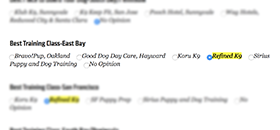
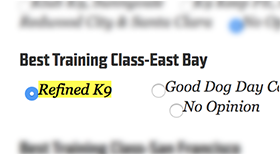
adding images

diff --git a/Misc/botb-2018.html b/Misc/botb-2018.html
@@ -155,7 +155,7 @@ div[style*="margin: 16px 0;"] { margin: 0 !important; }
                                 <tr>
                                     <td align="left" valign="top" style="font-family: Open Sans, Helvetica, Arial, sans-serif; padding-top: 25px;">
 
-                                        <img src="img-a.jpg" width="280" height="196" border="0" alt="Insert alt text here" style="display: block; border: 0px; color: #999999; font-family: sans-serif; font-size: 18px;" class="img-max">
+                                        <img src="https://refinedk9.com/email/Misc/class-east-bay.png" width="280" height="196" border="0" alt="Insert alt text here" style="display: block; border: 0px; color: #999999; font-family: sans-serif; font-size: 18px;" class="img-max">
 
                                         <h3 style="font-size: 18px; line-height: 24px;">Best Training Class - East Bay</h3>
                                         <p style="color: #999999; font-size: 16px; line-height: 24px;">
